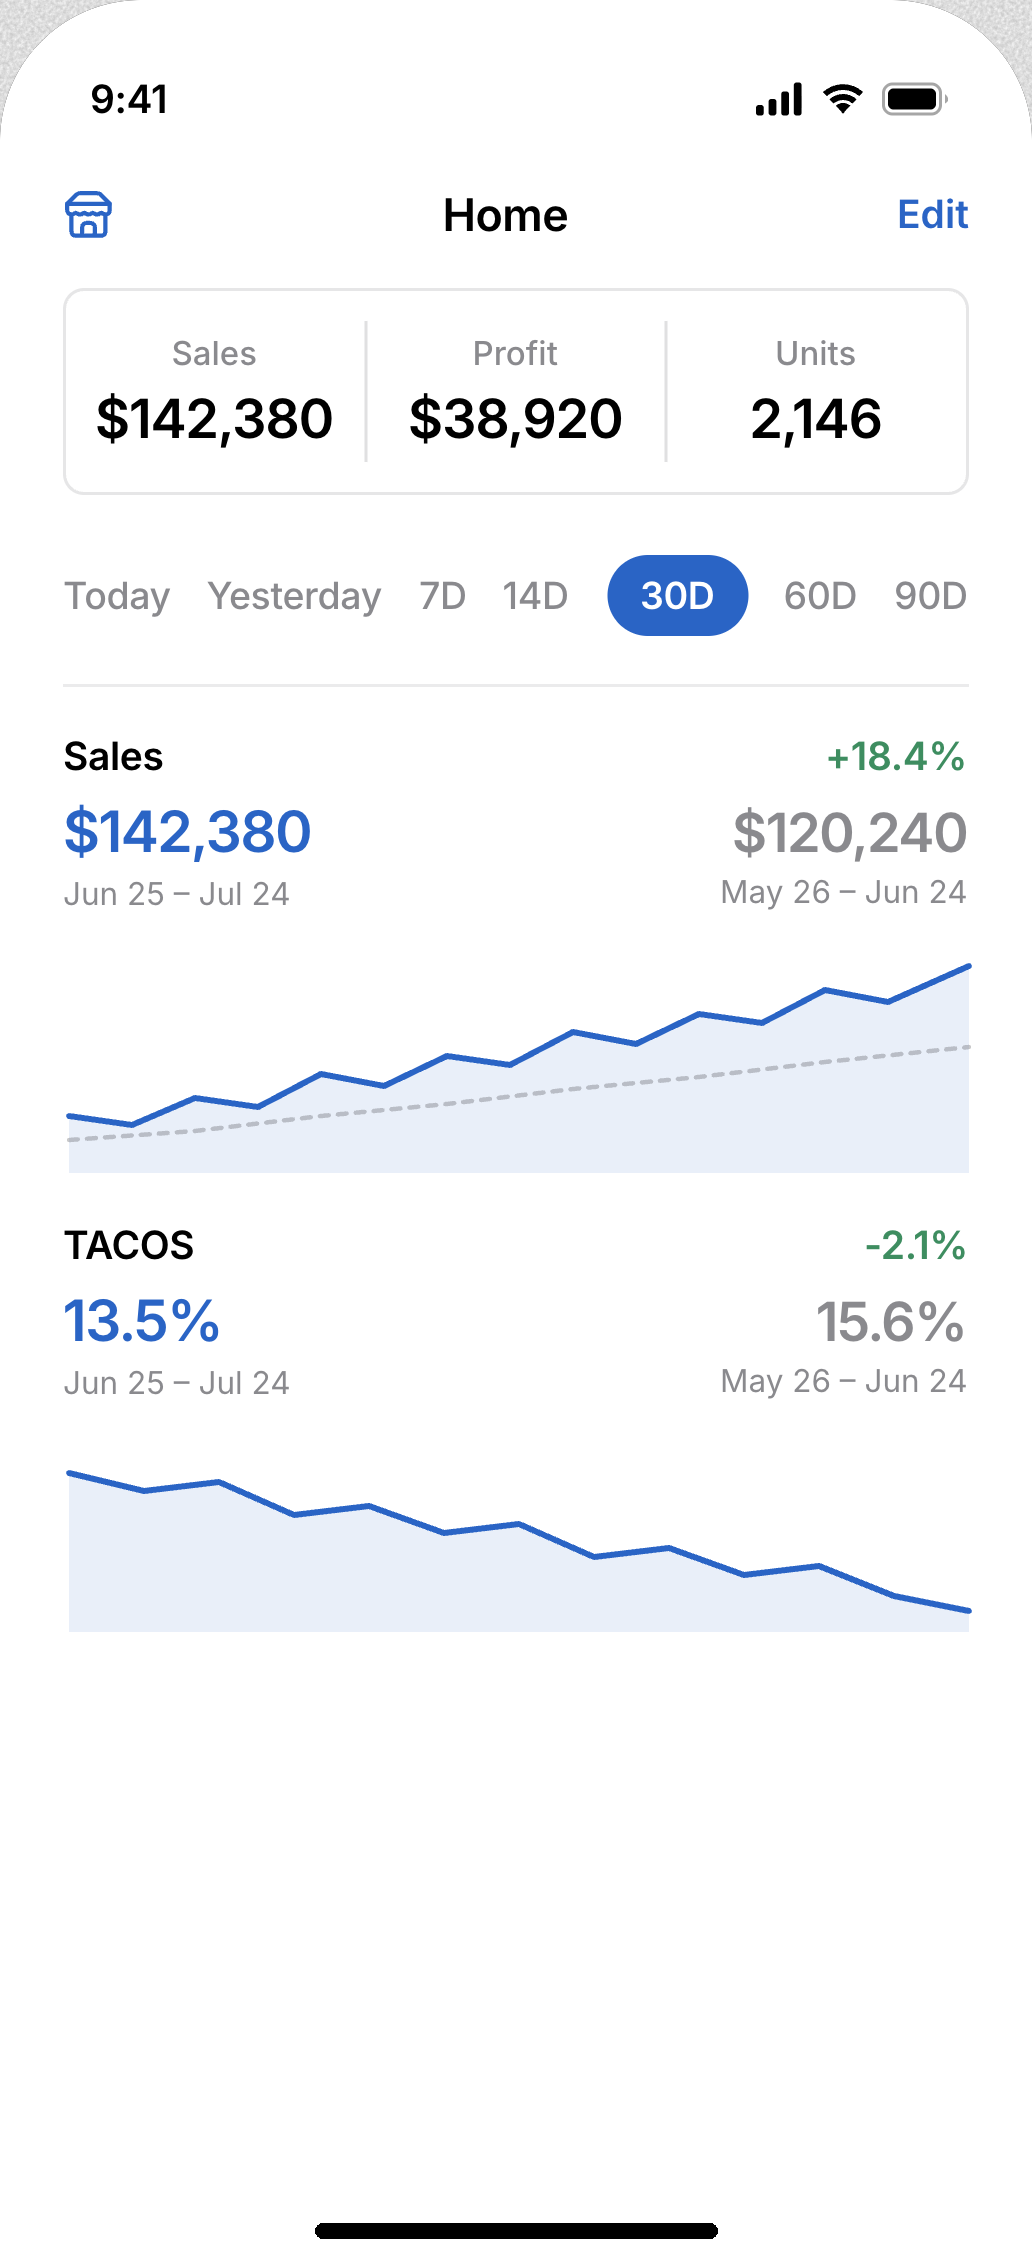
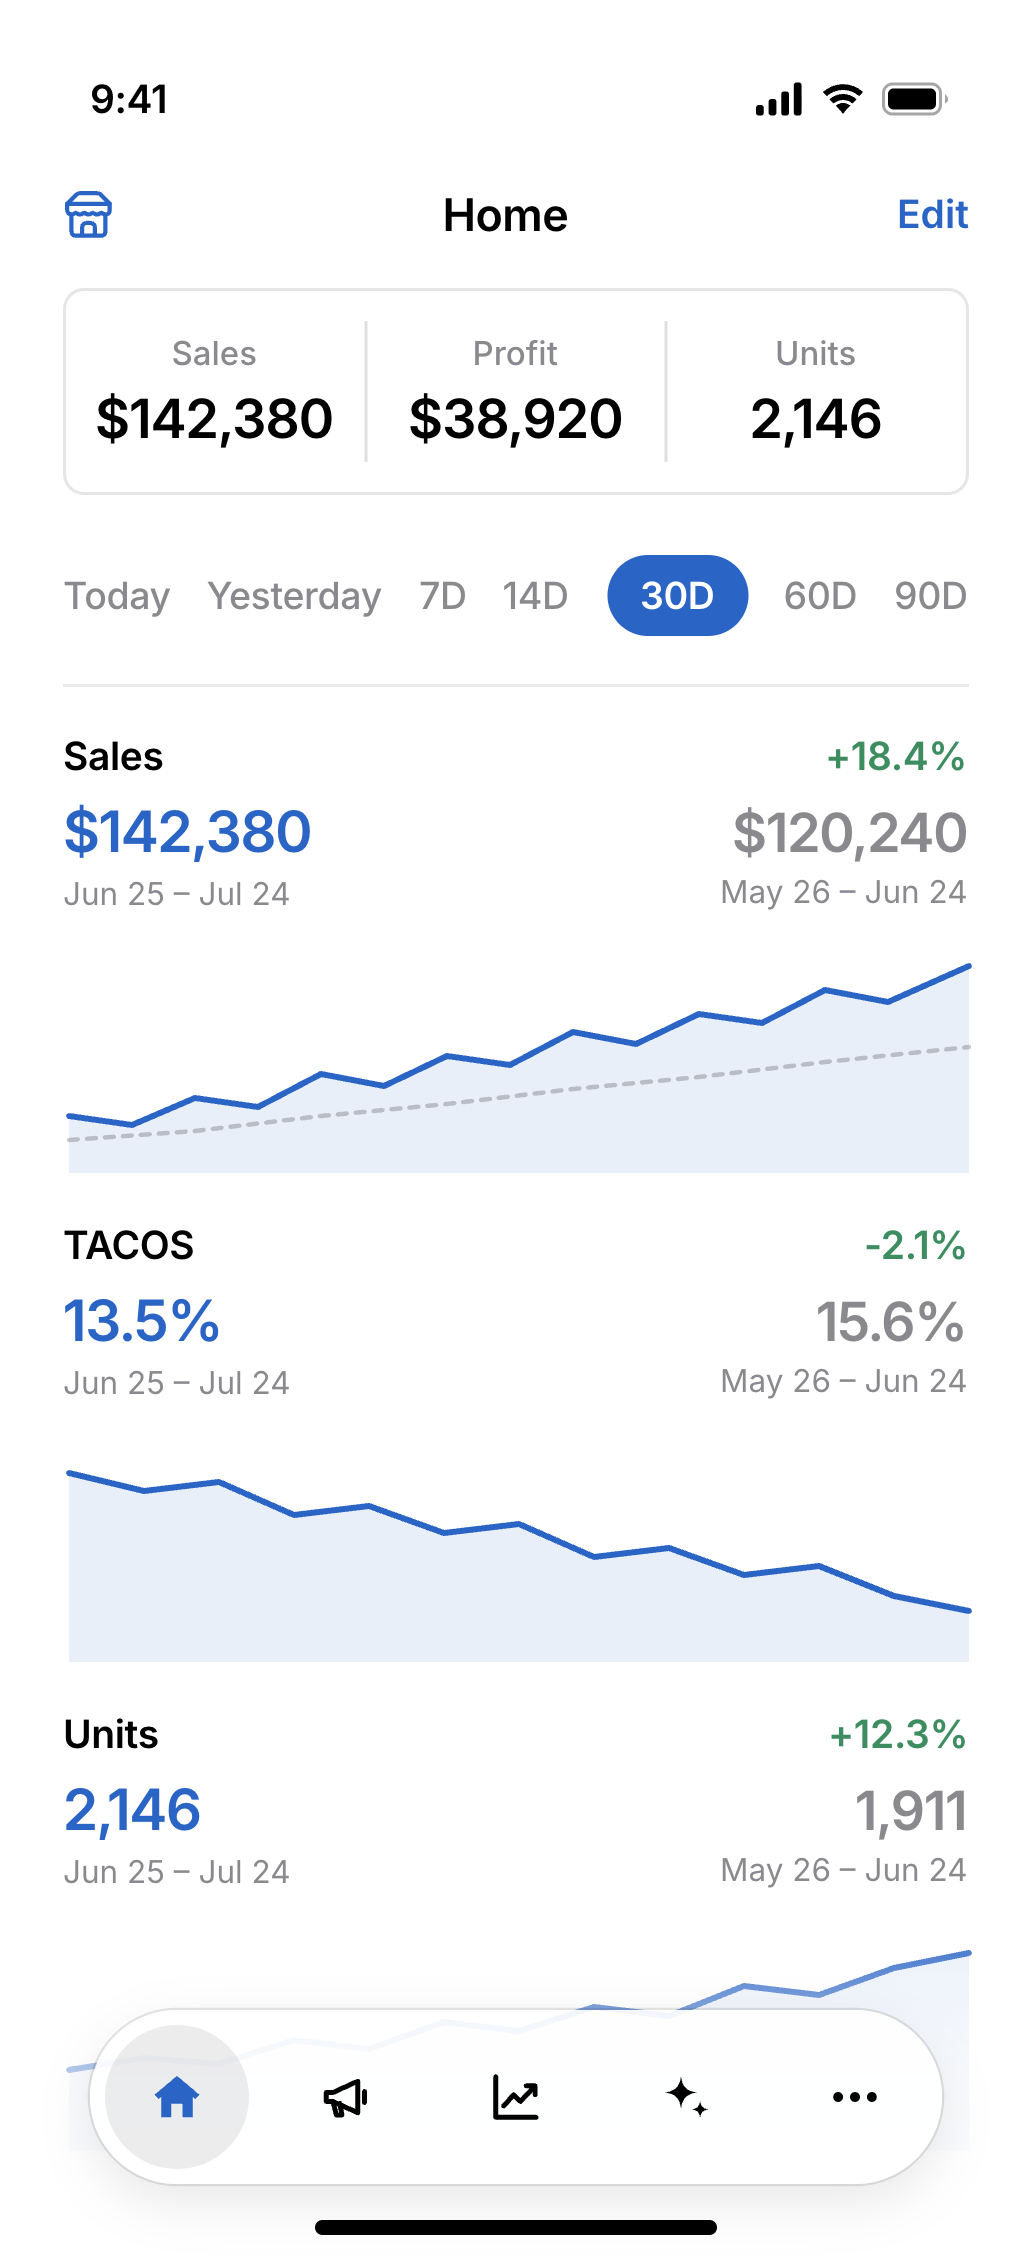
docs: add Launch Fast web, Chrome extension and dark iOS imagery
Rebuilt the Launch Fast screens as vector source artboards in Paper and
exported them at 3-4x: web Product Research (light/dark), the Chrome
extension panel on an Amazon search page and its Deep Dive modal
(light/dark), and dark versions of iOS Home and Launchie. The Amazon
delivery address is a placeholder. Handoff records the per-card crops and
the new Brand card built on the v2-main design system.

diff --git a/docs/redesign/HANDOFF.md b/docs/redesign/HANDOFF.md
@@ -15,8 +15,8 @@ Last updated: 2026-09-28. The whole redesign lives in Paper. Nothing in `src/` h
 | Home, mobile | Done. Copy rewritten and verified |
 | Expanded card, desktop and mobile | Done. Its background page still shows old tag labels ("Interface \| Systems") on tiles; remove them |
 | Filter lens pages (Interface, Systems, Agents, Brand, Product) | Done. Copy rewritten and verified |
-| Screenshots | Real everywhere except: Launch Fast web dashboard and Chrome extension, and all GymCreatives tiles (each needs a signed-in session; see Next steps) |
-| Launch Fast imagery | iOS Home and Launchie screens (exported from the "Launch Fast Designs" Paper file, extended to full height), the MCP Research Products widget (real widget bundle rendered with repo fixture data, light and dark), and the "Run Launch Fast from inside Claude" onboarding email render |
+| Screenshots | Real everywhere except all GymCreatives tiles (each needs a signed-in session; see Next steps) |
+| Launch Fast imagery | iOS Home, rebuilt full-screen in light and dark (Sales, TACOS and Units charts plus the floating tab dock; source artboards "Source · LF iOS Home · Light/Dark" in the Porfolio file, exported to `ios-home.png` and `ios-home-dark.png`), the Launchie chat screen, rebuilt in light and dark without the keyboard (source artboards "Source · LF iOS Launchie · Light/Dark", exported to `ios-launchie.png` and `ios-launchie-dark.png`; the Launchie tile is now a media tile with a pill and phone, like the iOS app tile). The MCP tiles show a mini Claude chat: user prompt, `research_products` tool call, then the widget as the reply card, the MCP Research Products widget (real widget bundle rendered with repo fixture data, light and dark), and the "Run Launch Fast from inside Claude" onboarding email render. The Brand card is now a mini brand system built from Launch Fast's v2-main design system (`components/market-intelligence/v2-design-system.ts`): the vector mark on zinc-900 #18181b, a proportional colour tile (#18181b, #0066cc with its segment ramp, zinc-100 #f4f4f5, white) and an Inter specimen (400/500/600, v2 never goes above 600). Dark uses v2's dark tokens (#171717 base, #1d1d1d elevated, #3395ff accent with the dark ramp, #f3f0ea ink). Live on home light/dark, mobile, the Brand filter page and the expanded-card backdrop; the Design System artboard copies are unchanged; the comparison board "Brand card directions · Launch Fast" is still on the canvas |
 | Native apps tiles | Real screenshots on all three, light and dark. Daily Hadith is two phone frames (home and translation) on sage. Beamlet's panel sits on peach and PR Monitor's on blue, both running off the tile edge. In dark mode the tints are deep green, warm brown and navy. App icons are in the filter-page labels |
 | PR Monitor tiles | The panel sits on a soft blue tile (`linear-gradient(160deg, #E9F0F9, #D2DFF0)`; dark `#1A2536 → #0E141D`), bleeding off the edge the way Beamlet's does. The Native apps row reads sage, peach, blue. The app icon is in the filter-page labels |
 | Systems diagrams | Redrawn in direction A, "Beams": brand-logo circles, curved gradient beams into one glowing hero tile, dashed = async. Rules and per-diagram specs are in the Claude Doc "System diagram guide". Light on every light artboard. The dark reference is the artboard "Filter \| Systems \| Dark" |
@@ -26,7 +26,7 @@ Last updated: 2026-09-28. The whole redesign lives in Paper. Nothing in `src/` h
 ## Next steps
 
 1. **Swap in screenshots** (Hasaam is bringing these). Placeholders still in Paper:
-   - Launch Fast: web dashboard (1440×900 @2x, light and dark, logged in to prod or a v2-main preview) and the Chrome extension on a live Amazon page
+   - Launch Fast Chrome extension: both states are rebuilt. The Deep Dive modal (sidebar, KPI strip, chart with the Sep 14 tooltip, product table without the Dimensions/Weight columns) sits over a dimmed Amazon page in "Source · LF Extension · Deep Dive · Light/Dark", exported to `chrome-extension-deep-dive-light.png` / `-dark.png` (4x); it isn't placed in a card yet. The inline panel on an Amazon "hand warmers" search page, rebuilt as vector layers at 1440×1060 in "Source · LF Extension · Amazon · Light/Dark" (the Amazon page stays light; only the panel changes theme, as in the real extension). Exported at 4x to `chrome-extension-amazon-light.png` / `-dark.png`; cards use per-card crops at ~5x (home 2x1 at 0.62 scale, Interface card at 0.68, mobile rail at 0.5). The delivery address is a placeholder ("Toronto, ON"), never the real one. Web dashboard done: the Product Research → Hand Warmer overview, rebuilt as vector layers at 1440×900 in "Source · LF Web · Product Research · Light/Dark", exported at 4x to `web-product-research-light.png` / `-dark.png`; the Admin sidebar group is left out.
    - GymCreatives (branch `hasaam/v2-qa-youtube-tool`, dark-only app): chat thread with a returned post, Auto Posts results, Account → Brand, an agent question with choices, and the model picker. Use a non-admin demo account. Existing QA shots are in `~/dev/GymCreatives_App/.context/v2-sprint-qa/` but show dev badges, admin links and real gym data
    - Nice to have: dark-mode screenshots and transparent product cutouts for the dark artboard, and the real Zen Sweat and Flag Runner logo files
 2. Remove the leftover tag labels behind the expanded cards.
